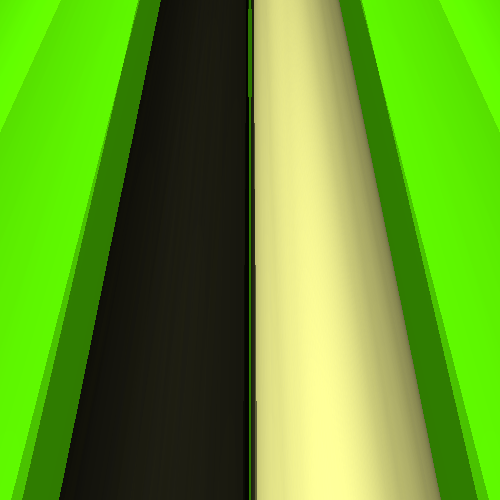
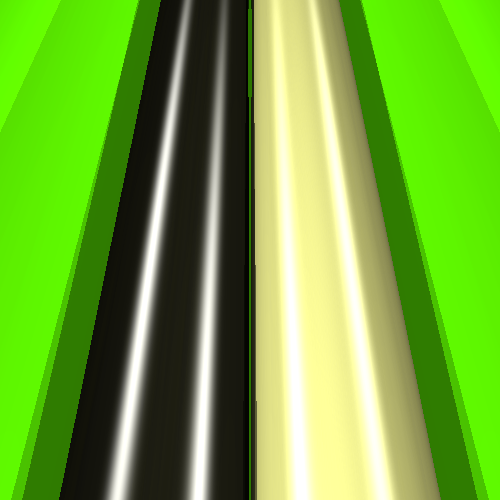
push the master

diff --git a/src/RayTracing/ColorUtils.java b/src/RayTracing/ColorUtils.java
@@ -20,12 +20,11 @@ public class ColorUtils {
         switch (s) {
             case Sphere:
                 mat = scene.Spheres.get(hit.Index).SphereMaterial;
-                normal = Vector.VectorSubtraction(hit.HitPoint, scene.Spheres.get(hit.Index).Center);
-                normal.Normalize();
+                normal = hit.Normal;
                 break;
             case Plane:
                 mat = scene.Planes.get(hit.Index).PlaneMaterial;
-                normal = scene.Planes.get(hit.Index).Normal;
+                normal = hit.Normal;
                 break;
             case Box:
                 mat = scene.Boxes.get(hit.Index).BoxMaterial;
@@ -37,7 +36,6 @@ public class ColorUtils {
 
         }
         //System.out.println("before getDiffuseColor");
-        normal.Normalize();
         c = CalcColor(scene, hit, mat, normal, ray);
         // ADD REflection & Transparency
         setColor(rgbData,index, c);
@@ -61,7 +59,6 @@ public class ColorUtils {
 
     public static Color getDiffuseColor(Scene scene, Hit hit, Material mat,
                                        Vector normal, Ray ray) {
-        float red, green, blue;
         Color f = Color.black;
         for (Light l : scene.Lights) {
             Color c = Color.black;
@@ -79,15 +76,16 @@ public class ColorUtils {
                 count ++ ;
                 shadow =(float) (1-l.ShadowIntensity); //ass defined on assignment
             }
-            double lightIntesity = SoftShadow.CalcLightIntensity(hit, scene, l);
+            double lightIntensity = SoftShadow.CalcLightIntensity(hit, scene, l);
             c = mult(l.LightColor,mat.DiffuseColor);
-            c = mult(c,(float) lightIntesity);
+            //c = mult(c,(float) lightIntensity);
             float nl =(float) Vector.DotProduct(normal, lightRay.Direction);
             nl = (float) Math.max(Math.abs(nl), 0.0);
             c = mult(c,nl);
-            if(isHit){ // on Hit we add specular Color
-                c=plus(c,getSpectacularColor(scene,hit,mat,normal,l, lightRay,ray,lightIntesity));
-            }
+            c = plus(c,getSpectacularColor(scene,hit,mat,normal,l, lightRay,lightIntensity));
+            /*if(isHit){ // on Hit we add specular Color
+                c = plus(c,getSpectacularColor(scene,hit,mat,normal,l, lightRay,lightIntensity));
+            }*/
             c =mult(c,shadow);
             //c = mult(c,(float)(1-mat.Transparency));
             f = plus(f,c);
@@ -97,13 +95,13 @@ public class ColorUtils {
     }
 
     public static Color getSpectacularColor( Scene scene, Hit hit,Material mat,
-                                             Vector normal,Light light, Ray lightRay,Ray ray, double lightIntesity){
-        Vector v = Vector.VectorSubtraction(hit.HitPoint, scene.Camera.Position);// V goes from hitPoint -> eye
+                                             Vector normal,Light light, Ray lightRay, double lightIntensity){
+        Vector v = Vector.VectorSubtraction( scene.Camera.Position, hit.HitPoint);// V goes from hitPoint -> eye
         v.Normalize();
         Vector lightTry = Vector.VectorSubtraction(lightRay.Origin,hit.HitPoint);
         lightTry.Normalize();
-        double temp = Math.max(Vector.DotProduct(lightRay.Direction,Vector.getReflection(lightTry,normal)),0);
-        temp = Math.pow(temp,mat.PhongSpecularityCoeffincient)*lightIntesity;
+        double temp = Math.max(Vector.DotProduct(v,Vector.getReflection(lightTry,normal)),0);
+        temp = Math.pow(temp,mat.PhongSpecularityCoeffincient);//*lightIntensity;
         Color c = mult(mat.SpecularColor,(float) (temp*light.SpecularIntensity));
         return c ;
     }

diff --git a/src/RayTracing/Vector.java b/src/RayTracing/Vector.java
@@ -92,9 +92,9 @@ public class Vector {
     implemented by the formula on Shading13 PDF
      */
     public static Vector getReflection(Vector l, Vector n){
-        Vector temp = Vector.ScalarMultiply(l,2); // temp = 2L
-        double t = Vector.DotProduct(temp,n); // t = 2L*N
-        Vector r = Vector.ScalarMultiply(temp,t); // r = (2L*N)N
+        double t = Vector.DotProduct(l,n); // t = L*N
+        t = t*2; // t = 2L*N
+        Vector r = Vector.ScalarMultiply(n,t); // r = (2L*N)N
         r = Vector.VectorSubtraction(r,l); // r = (2L*N)N-L
         r.Normalize();
         return r;
